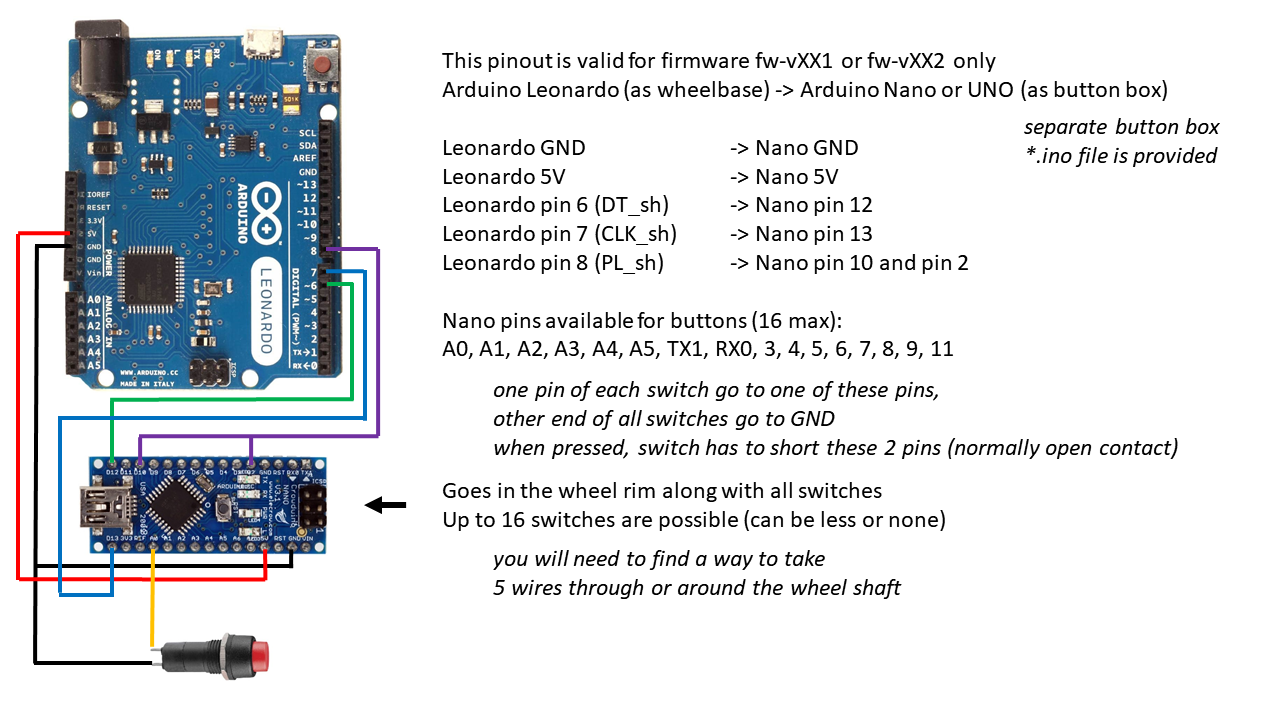
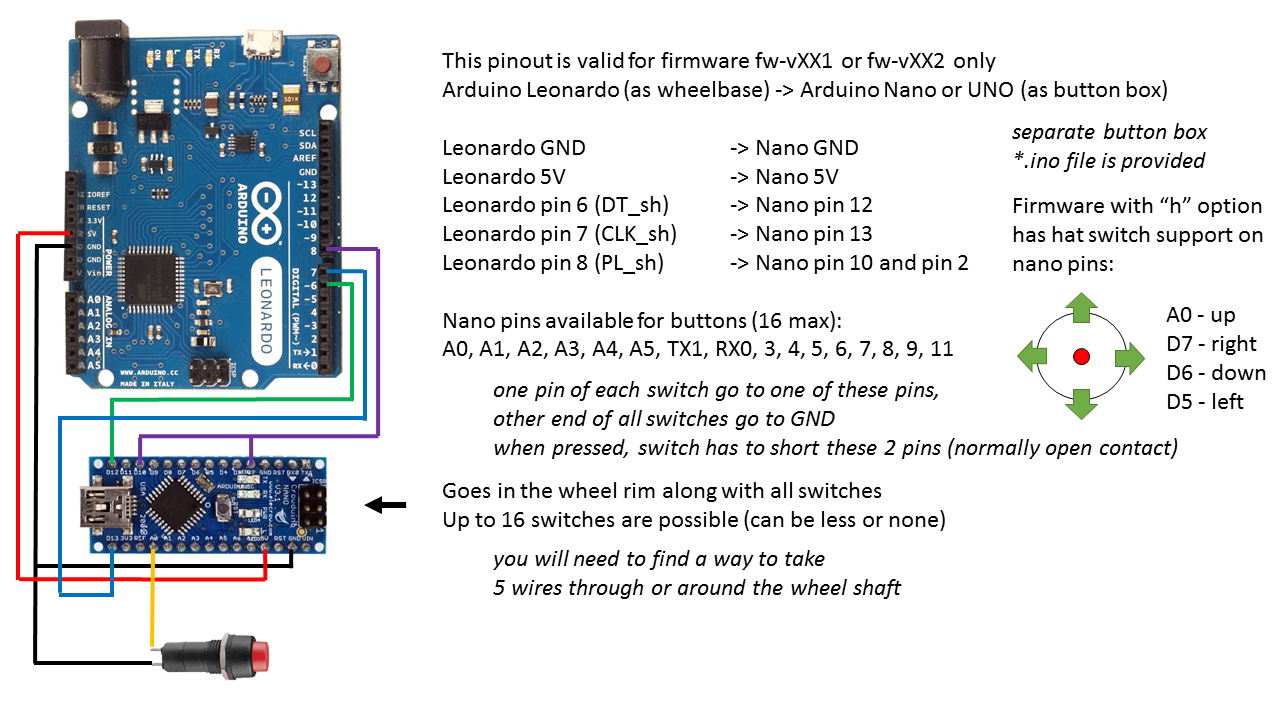
button box wiring

diff --git a/brWheel_my/Config.h b/brWheel_my/Config.h
@@ -10,18 +10,18 @@
 //#define USE_ADS1015       // milos, uncomment for 12bit pedals (commented is 10bit from arduino inputs), can not be used with AVG_INPUTS
 //#define USE_DSP56ADC16S			// 16 bits Stereo ADC (milos, can not be used if USE_SHIFT_REGISTER is uncommented)
 #define USE_QUADRATURE_ENCODER		// Position Quadrature encoder
-//#define USE_ZINDEX          // milos, use Z-index encoder channel (warning, can not be used with USE_ADS1105 or USE_MCP4725)
-//#define USE_LOAD_CELL				// Load cell shield // milos, new library for LC
+#define USE_ZINDEX          // milos, use Z-index encoder channel (warning, can not be used with USE_ADS1105 or USE_MCP4725)
+#define USE_LOAD_CELL				// Load cell shield // milos, new library for LC
 #define USE_SHIFT_REGISTER			// 8-bit Parallel-load shift registers G27 board steering wheel (milos, this one is modified for 16 buttons)
 //#define USE_DUAL_SHIFT_REGISTER		// Dual 8-bit Parallel-load shift registers G27 board shifter  (milos, not available curently)
-#define USE_XY_SHIFTER    // milos, uncomment to use XY analog shifter (can not be used with USE_BTNMATRIX, note that for proMicro clutch and handbrake will be unavailable)
-#define USE_HATSWITCH        // milos, uncomment to use first 4 buttons for hat switch instead (can not be used if no load cell or with shift register)
+//#define USE_XY_SHIFTER    // milos, uncomment to use XY analog shifter (can not be used with USE_BTNMATRIX, note that for proMicro clutch and handbrake will be unavailable)
+//#define USE_HATSWITCH        // milos, uncomment to use first 4 buttons for hat switch instead (can not be used if no load cell or with shift register)
 //#define USE_BTNMATRIX        // milos, uncomment to use 8 pins as a 4x4 button matrix for total of 16 buttons (can not be used with USE_LOAD_CELL, shift register or XY shifter)
 //#define AVG_INPUTS        // milos, uncomment to use averaging of arduino analog inputs (if readings can be done faster than CONTROL_PERIOD)
 //#define USE_AUTOCALIB        // milos, uncomment to use autocalibration for pedal axis (if left commented manual calibration is enabled)
-#define USE_CENTERBTN    // milos, ucomment to assign digital input pin D2 for hardware wheel recenter to 0deg (not available when USE_ZINDEX, USE_ADS1105 or USE_MCP4725)
+//#define USE_CENTERBTN    // milos, ucomment to assign digital input pin D2 for hardware wheel recenter to 0deg (not available when USE_ZINDEX, USE_ADS1105 or USE_MCP4725)
 //#define USE_MCP4725      // milos, 12bit DAC (0-5V), uncomment to enable output of FFB signal as DAC voltage output
-#define USE_PROMICRO    // milos, uncomment if you are using Arduino ProMicro board (leave commented for Leonardo or Micro variants)
+//#define USE_PROMICRO    // milos, uncomment if you are using Arduino ProMicro board (leave commented for Leonardo or Micro variants)
 #define USE_EEPROM // milos, uncomment this to enable loading/saving settings from EEPROM
 
 #define CALIBRATE_AT_INIT	0 //milos, was 1
@@ -191,7 +191,7 @@ uint8_t LC_scaling; // milos, load cell scaling factor (affects brake pressure, 
 #define PARAM_ADDR_HBRK_LO       0x36 //milos, hand brake pedal cal min
 #define PARAM_ADDR_HBRK_HI       0x38 //milos, hand brake pedal cal max
 
-#define VERSION		0xD3 // milos, this is my version (previous was 8)
+#define VERSION		0xD4 // milos, this is my version (previous was 8)
 
 #define GetParam(m_offset,m_data)	getParam((m_offset),(u8*)&(m_data),sizeof(m_data))
 #define SetParam(m_offset,m_data)	setParam((m_offset),(u8*)&(m_data),sizeof(m_data))
